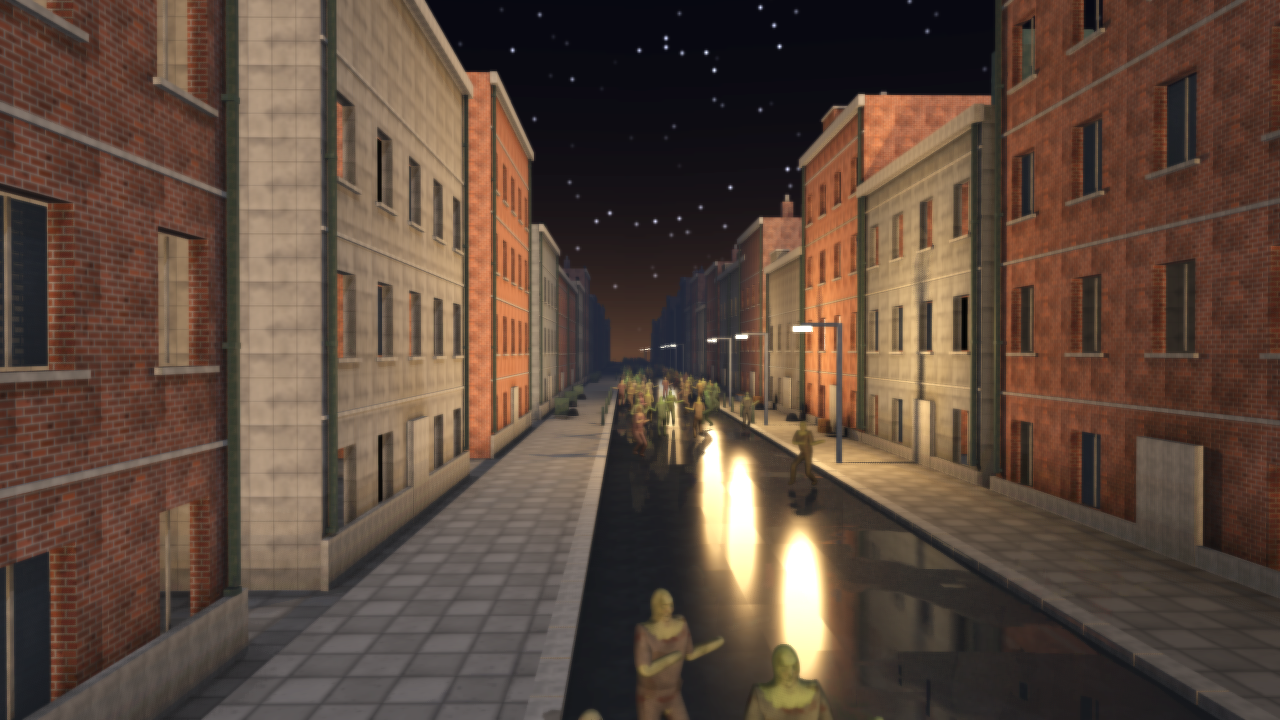
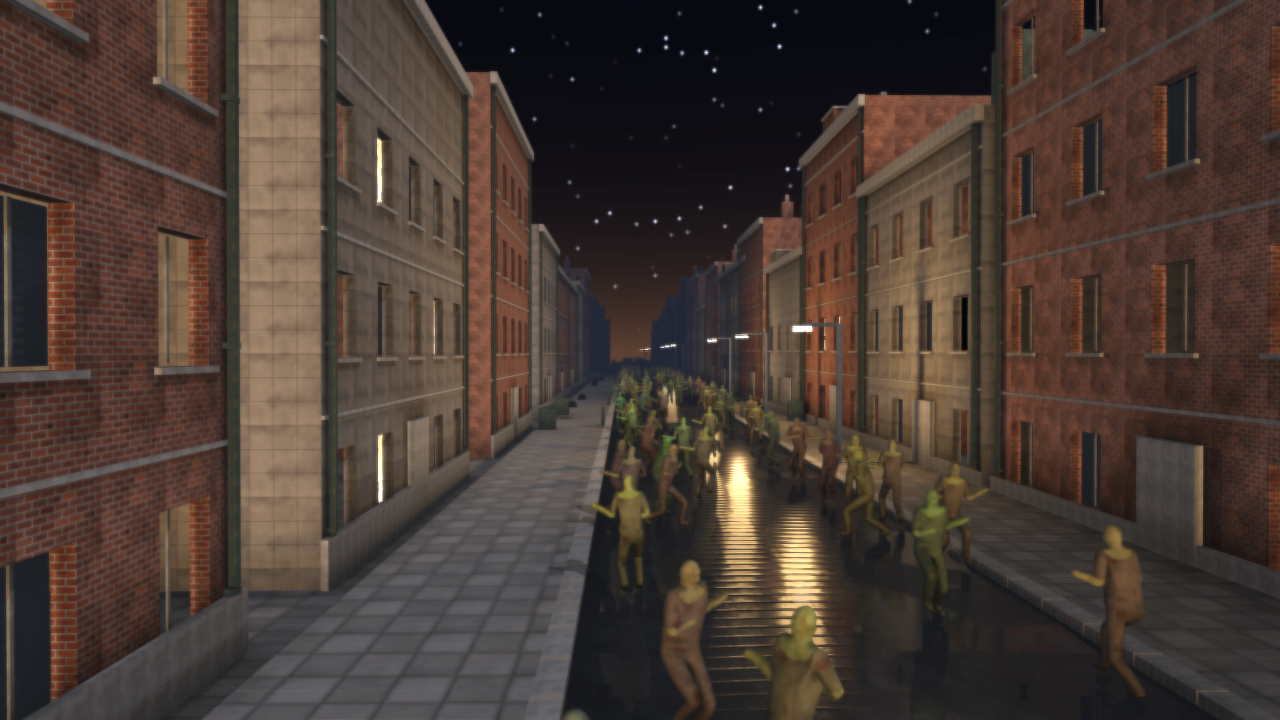
The city's lamps, set for the rays
The lamps were tuned on the map path, where every lamp is damped by the
moon's shadow map: a lamp has no map of its own, and the key light's is
applied to every light's direct term. By ray a lamp throws its own shadow
and nothing else dims it, so the same 3.2 blew the facades to white -- the
top of a side-on frame at 206 of 255 against 89 on the map, measured with
tools/probe_image; without the lamps the two paths agree at 46. 1.8 at a
7 m reach, set for the rays, the path the city runs on: the facades fall
to the moon between the pools and the street reads as night.
docs/zombie-city.png re-rendered.

Verified: views 0, 1 and 2 on Vulkan, view 1 on OpenGL.

diff --git a/CHANGELOG.md b/CHANGELOG.md
@@ -2,6 +2,17 @@
 
 ## [current]
 
+### The city's lamps, set for the rays
+
+- The city's lamps were tuned on the map path, where every lamp is damped
+  by the moon's shadow map (a lamp has no map of its own, and the key
+  light's is applied to every light's direct term). By ray a lamp throws
+  its own shadow and nothing else dims it, so the same 3.2 blew the
+  facades to white: the top of a side-on frame at 206 of 255 against 89
+  on the map. 1.8 at a 7 m reach, set for the rays, the path the city runs
+  on; the facades fall to the moon between the pools again and the street
+  reads as night. `docs/zombie-city.png` re-rendered.
+
 ### The weather over the city
 
 - `AE3D_WEATHER=rain|snow|dust|storm` (and `AE3D_WEATHER_LEVEL`) over the
